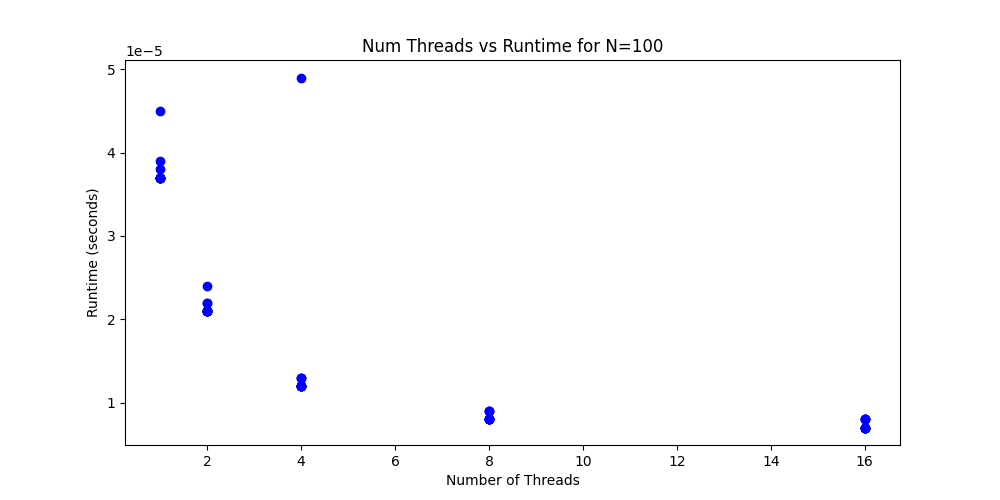
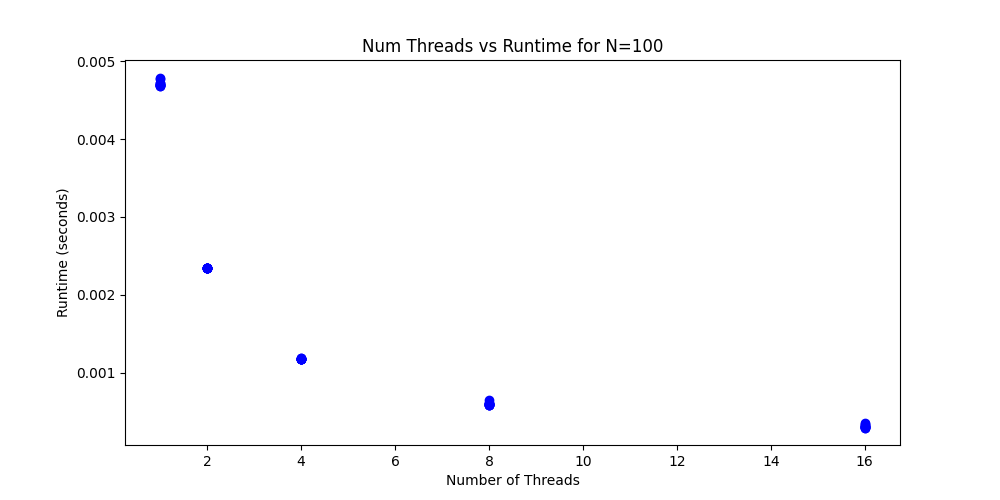
Caught an error with graphics.py that caused N=100 plot to be a copy of N=20 plot, updated NumThreadsVsRuntimeN=100.png to represent this update

diff --git a/Part_1_code_&_plots/graphics.py b/Part_1_code_&_plots/graphics.py
@@ -49,7 +49,7 @@ def main():
 
     # Create a plot for df_100
     plt.figure(figsize = (10,5))
-    plt.scatter(df_20[' Threads'], df_20[' Runtime'], label='Number of threads vs runtime', linestyle='-', linewidth=1, color='blue')
+    plt.scatter(df_100[' Threads'], df_100[' Runtime'], label='Number of threads vs runtime', linestyle='-', linewidth=1, color='blue')
     plt.xlabel('Number of Threads')
     plt.ylabel('Runtime (seconds)')
     plt.title("Num Threads vs Runtime for N=100")
